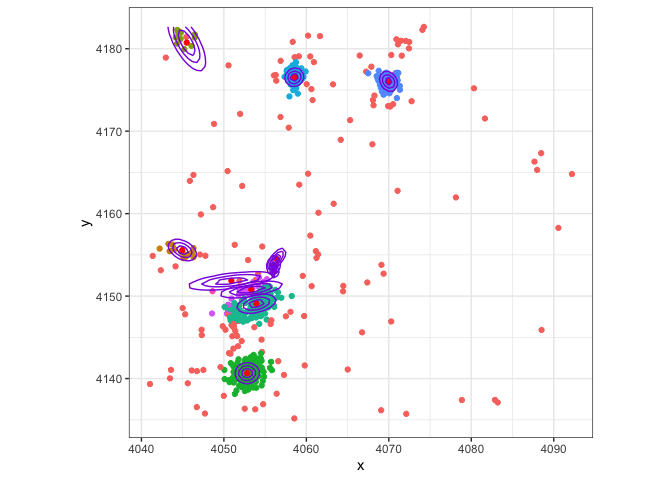
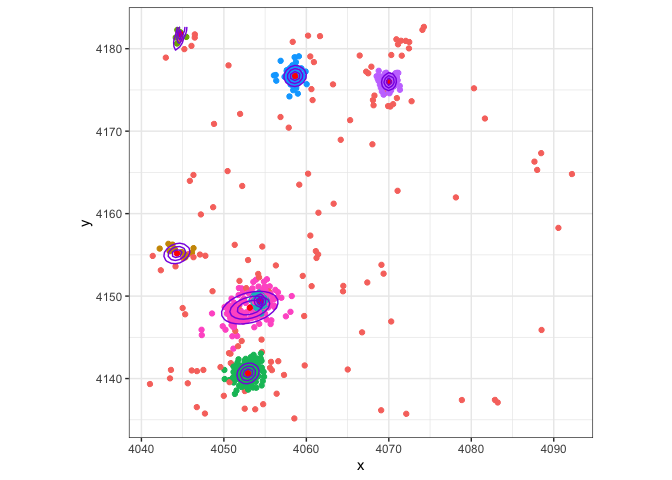
fixed MFM results

diff --git a/README.md b/README.md
@@ -339,7 +339,7 @@ chandra = MFMMixture(K = K, D = 2, X = X, s = s, z = z, m0 = colMeans(X),
                  m0_init = m0_init)
 
 # run MFM Gibbs
-niters = 10
+niters = 50
 K_iters = rep(0, niters)
 for(i in 1:niters) {
   chandra$collapsed_gibbs()
